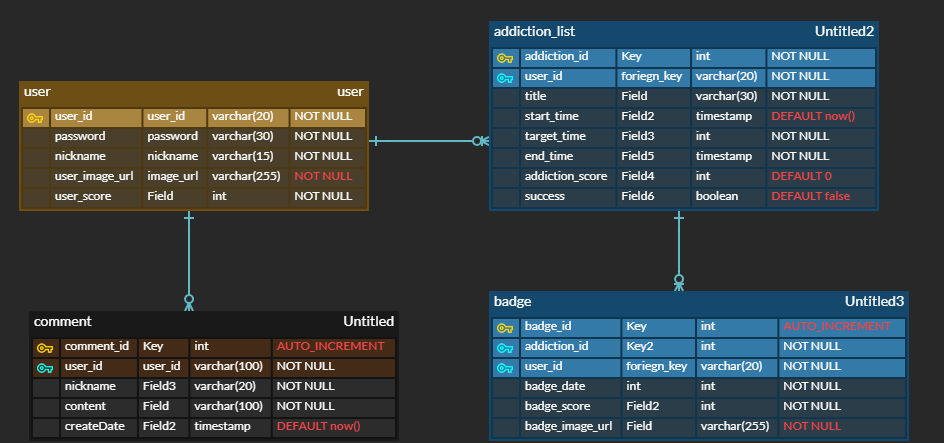
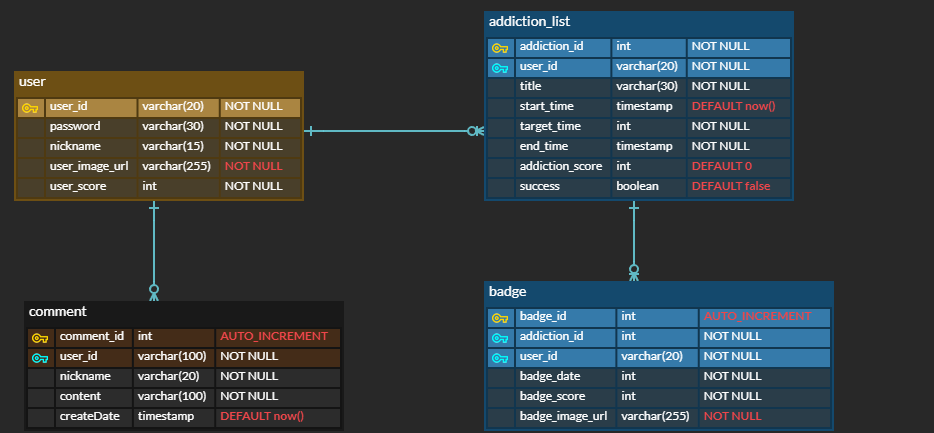
Docs: DB ERD 수정

Changed region(s): [[0.0, 0.0, 0.9625, 1.0], [0.031, 0.6905, 0.4347, 0.9908], [0.1552, 0.6605, 0.2173, 0.7206]]

diff --git a/BackEnd/src/main/java/com/ssafy/model/service/AddictionServiceImpl.java b/BackEnd/src/main/java/com/ssafy/model/service/AddictionServiceImpl.java
@@ -116,7 +116,6 @@ public class AddictionServiceImpl implements AddictionService{
         			break;
         		}
         		addictionDao.insertBadge(userId, addictionId, date);
-        		System.out.println(date+" 뱃지 생성");
         	}
         }else {
         	int lastBadgeDate = badgeList.get(badgeList.size()-1).getBadgeDate();
@@ -132,11 +131,8 @@ public class AddictionServiceImpl implements AddictionService{
         			break;
         		}
         		addictionDao.insertBadge(userId, addictionId, date);
-        		System.out.println(date+" 뱃지 생성");
         	}
         }
-        
-        
         return 1;
 	}
 
